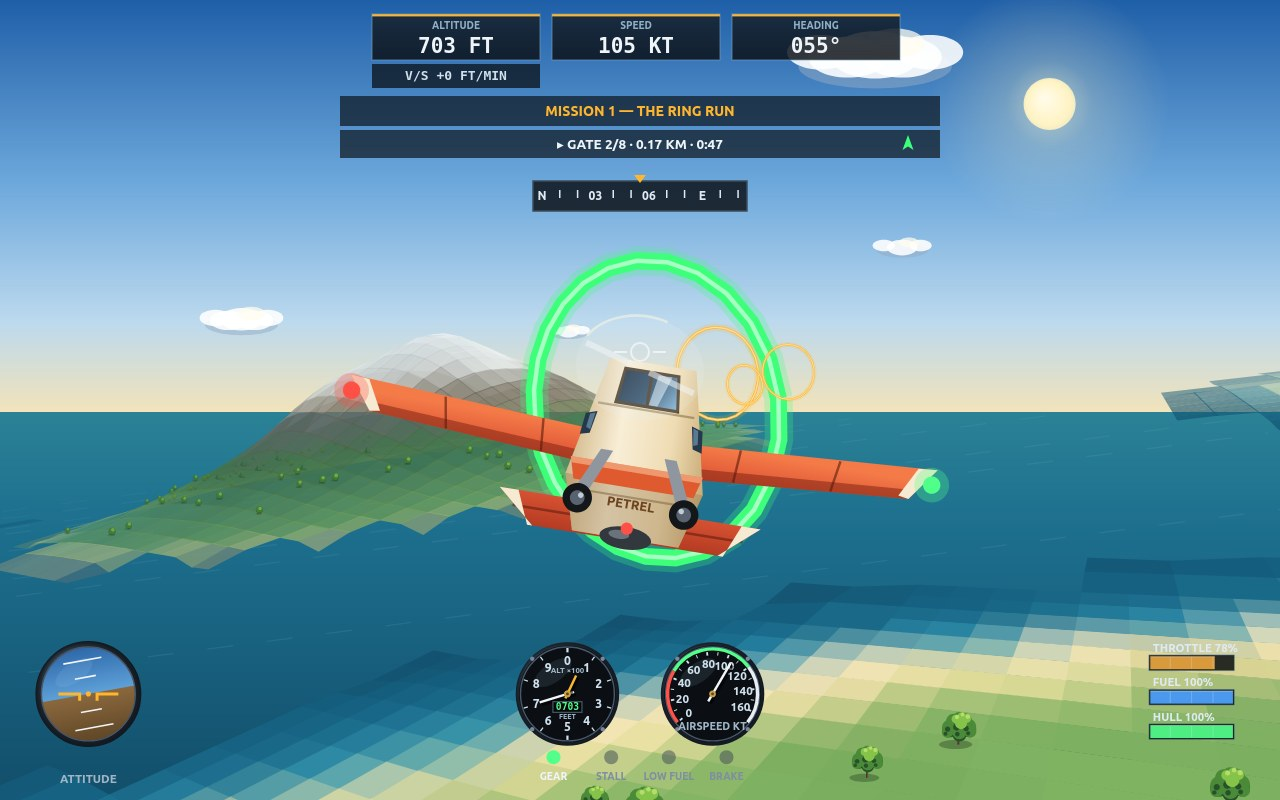
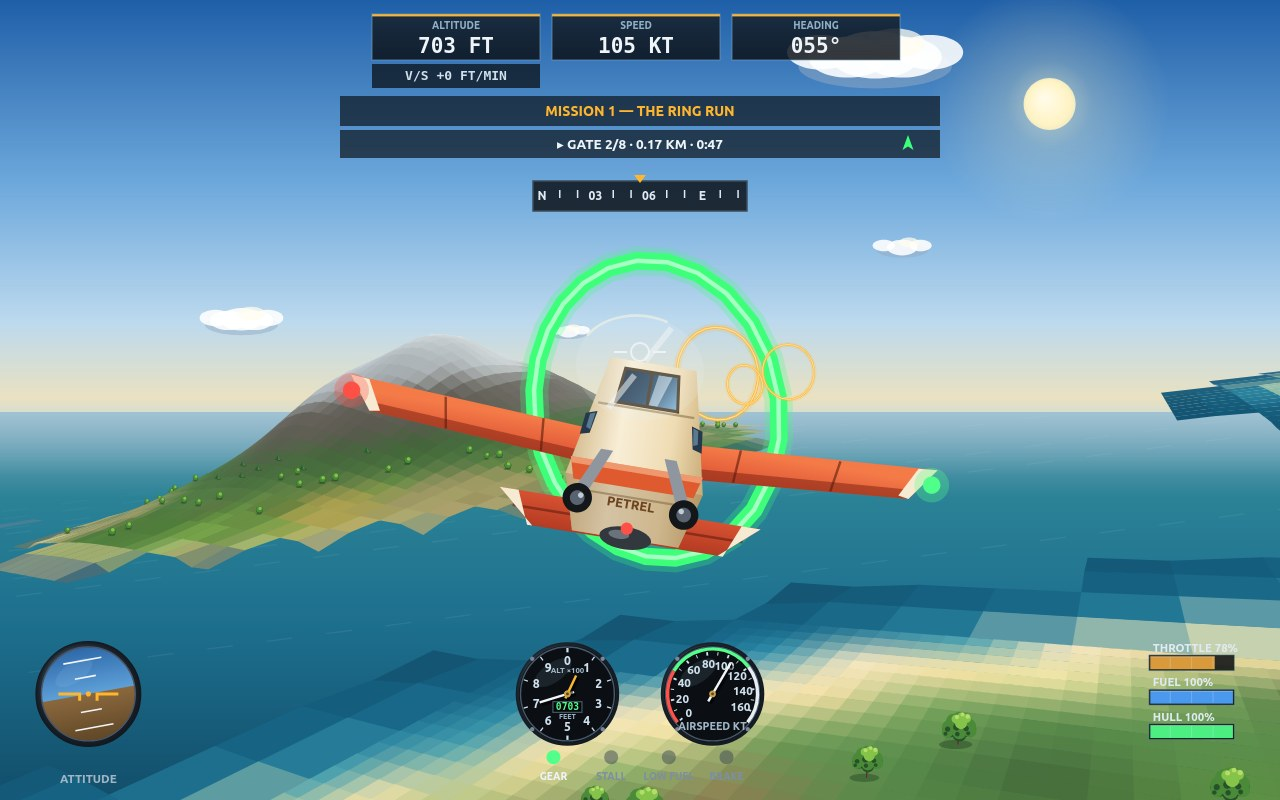
Terrain realism v5: farmland plots on the lowlands (warped grid, crop tones, plough rows, hedgerows, island ring tracks), distance haze mixed into vertex colour (no more translucent-fade wireframe on far hills), softened rock strata, cloud-shadow patches, hazy sea horizon

diff --git a/game/src/renderer-3d.js b/game/src/renderer-3d.js
@@ -5,7 +5,7 @@
 // the mission rings. One job: turn world coordinates into a picture a
 // pilot can read at a glance.
 
-import { WORLD, PALETTE, RUNWAYS } from './config.js';
+import { WORLD, PALETTE, RUNWAYS, ISLANDS } from './config.js';
 import { groundHeight, surfaceKind, chartNoise, TOWN_BLOCKS, LANDMARKS } from './terrain-archipelago.js';
 
 // The sun's direction, one for the whole world: high, east and a little
@@ -69,6 +69,79 @@ function sstep(a, b, v) {
   return t * t * (3 - 2 * t);
 }
 
+// --- The worked lowlands: farmland that breaks the last grid ---
+// v4's foreground still read as big flat squares: at grazing angles
+// one flat-filled sub-quad covers hundreds of pixels, and on the
+// flat lowlands nothing interrupted the mesh. The lowlands are now
+// farmed. Plots lie on a grid turned ~18° off the world's axes and
+// warped by chart noise, so no boundary ever runs with the drawing
+// mesh; each plot takes a crop tone from its hash, carries plough
+// rows along its own direction, and is fenced by a dark hedgerow.
+// A sandy track rings each big island through its field band.
+
+const CROP_TONES = ['cropWheat', 'cropYoung', 'cropDeep', 'cropPlough', 'cropFallow', 'grassHigh'];
+
+// Inside Porto Lume's town rectangle the ground stays plain grass:
+// the houses carry that quarter, and plots under a street grid
+// would fight the town's own pattern.
+function inTownGround(x, z) {
+  const lume = ISLANDS.find((i) => i.town);
+  return lume && x > lume.x - 400 && x < lume.x + 400 && z > lume.z + 150 && z < lume.z + 580;
+}
+
+// Distance to the nearest island ring track: a dirt road that
+// circles each big island through its farmed band, so a pilot
+// skimming the lowlands crosses a track, not a texture edge.
+function trackDistance(x, z) {
+  const home = Math.abs(Math.hypot(x - 0, z - 1700) - 760);
+  const lume = Math.abs(Math.hypot(x - 2500, z - 2300) - 580);
+  return Math.min(home, lume);
+}
+
+// The farmland itself, as a colour laid over the grass: returns the
+// tinted colour for a point in the field band, or null outside it.
+function fieldTint(c, h, slope, x, z) {
+  const amt = sstep(5.5, 9.5, h) * (1 - sstep(52, 84, h)) * (1 - sstep(0.3, 0.48, slope));
+  if (amt <= 0.01 || inTownGround(x, z)) return null;
+  // The plot grid, turned and warped: boundaries wander with the
+  // noise, never with the mesh that draws them.
+  const ca = 0.951; // cos(18°)
+  const sa = 0.309; // sin(18°)
+  const ru = x * ca + z * sa + 115 * chartNoise(x * 6, z * 6);
+  const rv = -x * sa + z * ca + 115 * chartNoise(z * 6 + 40, x * 6 - 25);
+  const S = 235; // one plot, metres across
+  const fu = ru / S;
+  const fv = rv / S;
+  const iu = Math.floor(fu);
+  const iv = Math.floor(fv);
+  const pu = fu - iu;
+  const pv = fv - iv;
+  const plotHash = cellHash(iu * 3 + 7, iv * 5 - 3);
+  const crop = hexRgb(PALETTE[CROP_TONES[Math.min(5, Math.floor(plotHash * 6))]]);
+  // Plough rows run along a direction the plot's own hash chooses,
+  // a gentle light-dark breathing across the field. The rows are
+  // wide and faint on purpose: sampled on the 65 m vertex grid, a
+  // tight bright stripe would alias into per-vertex patchwork.
+  const sta = plotHash * Math.PI;
+  const su = ((pu - 0.5) * Math.cos(sta) + (pv - 0.5) * Math.sin(sta)) * S;
+  const rows = 0.5 + 0.5 * Math.sin(su * ((Math.PI * 2) / 26) + plotHash * 30);
+  const rf = 0.97 + rows * 0.05;
+  let out = mixRgb(c, [crop[0] * rf, crop[1] * rf, crop[2] * rf], amt * 0.8);
+  // Hedgerows: a dark fence line where one plot meets the next,
+  // soft enough to read as a hedge, never as a drawn border.
+  const edge = Math.min(Math.min(pu, 1 - pu), Math.min(pv, 1 - pv)) * S;
+  const hedge = 1 - sstep(3.5, 10, edge);
+  if (hedge > 0) out = mixRgb(out, hexRgb(PALETTE.hedge), hedge * amt * 0.75);
+  // The ring track: bare sandy dirt where the road crosses, its
+  // edges feathered into the fields it serves.
+  const td = trackDistance(x, z);
+  if (td < 10) {
+    const dirt = 1 - sstep(4, 10, td);
+    out = mixRgb(out, hexRgb(PALETTE.dirt), dirt * Math.max(amt, 0.3) * 0.85);
+  }
+  return out;
+}
+
 // The ramp itself: sea floor → shelf → shallows → wet sand → dry
 // sand → mottled grass → strata rock → noise-broken snow, every
 // boundary a blend band several metres wide.
@@ -79,8 +152,8 @@ export function terrainBaseRgb(h, slope, x, z) {
     // darkens into wet sand exactly where the water lets go.
     let c = mixRgb(hexRgb(PALETTE.seaDeep), hexRgb(PALETTE.seaFloor), sstep(-11, -4, h));
     c = mixRgb(c, hexRgb(PALETTE.seaShelf), sstep(-4.5, -1.2, h));
-    c = mixRgb(c, hexRgb(PALETTE.seaShallow), sstep(-1.4, 0.1, h));
-    return mixRgb(c, hexRgb(PALETTE.sandWet), sstep(-0.1, 0.45, h));
+    c = mixRgb(c, hexRgb(PALETTE.seaShallow), sstep(-2.4, 0.3, h));
+    return mixRgb(c, hexRgb(PALETTE.sandWet), sstep(-0.2, 0.9, h));
   }
   // Sand: wet at the waterline, dry and pale a few metres up. Over
   // the very lip lies the foam's soft edge — a pale band whose
@@ -96,12 +169,19 @@ export function terrainBaseRgb(h, slope, x, z) {
   const mottle = 0.5 + 0.5 * chartNoise(x * 2.3, z * 2.3);
   const grass = mixRgb(g, hexRgb(PALETTE.scrub), mottle * 0.45);
   c = mixRgb(c, grass, sstep(3.8, 8.5, h));
-  // Rock: strata bands that follow the contour lines, their edges
-  // broken by noise, with darker scree flecked through them. Steep
-  // ground gives up its grass and shows rock at any height, and high
-  // ground turns rocky even where it lies gentle.
-  const strata = 0.5 + 0.5 * Math.sin(h * 0.115 + chartNoise(x, z) * 2.4);
-  let rock = mixRgb(hexRgb(PALETTE.rockDark), hexRgb(PALETTE.rock), 0.25 + strata * 0.65);
+  // Farmland takes the flat lowlands over from the grass: warped
+  // plots, crop tones, plough rows, hedgerows and the ring tracks.
+  const tinted = fieldTint(c, h, slope, x, z);
+  if (tinted) c = tinted;
+  // Rock: broad tonal bands with edges the noise tears apart, and
+  // darker scree flecked through them. Steep ground gives up its
+  // grass and shows rock at any height, and high ground turns rocky
+  // even where it lies gentle. (v4's strata ran at a tight vertical
+  // period keyed to height alone, so on a smooth dome they printed
+  // as contour lines — the bands are wider now, weaker, and their
+  // phase is dragged sideways by noise until no line survives.)
+  const strata = 0.5 + 0.5 * Math.sin(h * 0.05 + chartNoise(x * 2, z * 2) * 3.4);
+  let rock = mixRgb(hexRgb(PALETTE.rockDark), hexRgb(PALETTE.rock), 0.42 + strata * 0.38);
   const scree = 0.5 + 0.5 * chartNoise(x * 5.1, z * 5.1);
   rock = mixRgb(rock, hexRgb(PALETTE.rockDark), scree * 0.22);
   const rockAmt = Math.max(sstep(0.52, 0.9, slope), sstep(125, 185, h));
@@ -168,7 +248,15 @@ export function vertexAt(ix, iz) {
     ? hexRgb(PALETTE.runway)
     : terrainBaseRgb(h, slope, x, z);
   const grain = 0.985 + cellHash(ix * 3 + 11, iz * 3 - 7) * 0.03;
-  const f = light * grain;
+  // Cloud shadow: broad soft patches of shade, hundreds of metres
+  // across, laid over land and shelf alike — the still pools of
+  // darker ground a pilot sees under a broken sky. Kept under a
+  // tenth of the light, so they soften the world without ever
+  // reading as terrain of their own.
+  const cs = Math.sin(x * 0.0016 + 1.7) * Math.sin(z * 0.0013 - 0.6)
+    + 0.5 * Math.sin(x * 0.0007 - 0.9) * Math.sin(z * 0.0021 + 2.0);
+  const cloudShade = 1 - 0.09 * sstep(0.25, 0.95, cs);
+  const f = light * grain * cloudShade;
   v = {
     h,
     r: Math.min(255, base[0] * f),
@@ -305,18 +393,29 @@ export function drawSky(ctx, camera, width, height) {
 export function drawSea(ctx, project, camera, width, height, horizon) {
   // Open water deepens away from the horizon line; the shallows near a
   // shore are the terrain shelf's own colour, drawn with the land.
+  // The far water starts as haze-blue and only deepens as it nears,
+  // so the sea climbs into the sky instead of meeting it at a cut.
   const g = ctx.createLinearGradient(0, horizon, 0, height);
-  g.addColorStop(0, '#2b8296');
-  g.addColorStop(0.3, PALETTE.sea);
+  g.addColorStop(0, '#86aec2');
+  g.addColorStop(0.22, '#2b8296');
+  g.addColorStop(0.55, PALETTE.sea);
   g.addColorStop(1, PALETTE.seaDeep);
   ctx.fillStyle = g;
   ctx.fillRect(0, horizon, width, height - horizon);
+  // A soft band of horizon haze straddling the waterline: strongest
+  // exactly where sea meets sky, gone a few dozen pixels either way.
+  const band = ctx.createLinearGradient(0, horizon - 14, 0, horizon + 64);
+  band.addColorStop(0, 'rgba(188,214,228,0)');
+  band.addColorStop(0.18, 'rgba(188,214,228,0.5)');
+  band.addColorStop(1, 'rgba(188,214,228,0)');
+  ctx.fillStyle = band;
+  ctx.fillRect(0, horizon - 14, width, 78);
   // Sun glitter: a bright path on the water under the sun, dashes
   // clustered toward the sun's side of the frame and thinning outward,
   // plus a sparse scatter elsewhere — it sells the altitude instantly.
-  for (let i = 0; i < 46; i++) {
-    const onPath = i < 32;
-    const gx = onPath ? 0.82 + (((i * 197) % 199) / 199 - 0.5) * 0.36 : ((i * 613) % 997) / 997;
+  for (let i = 0; i < 58; i++) {
+    const onPath = i < 40;
+    const gx = onPath ? 0.82 + (((i * 197) % 199) / 199 - 0.5) * 0.52 : ((i * 613) % 997) / 997;
     const gz = 300 + ((i * 389) % 2600);
     const p = project(camera.x + (gx - 0.5) * gz * 1.6, 0, camera.z + gz * 0.4 + (i % 7) * 90);
     if (p && p.x > -20 && p.x < width + 20 && p.y > horizon && p.y < height) {
@@ -377,16 +476,15 @@ export function drawTerrain(ctx, project, plane) {
     }
   }
   cells.sort((a, b) => b.d2 - a.d2);
+  const hazeRgb = hexRgb(PALETTE.haze);
   for (const cell of cells) {
-    // Haze: far ground fades toward the sky so the chart's edge dissolves
-    // instead of ending in a confetti of grazing-angle slivers.
-    ctx.globalAlpha = Math.max(0.42, Math.min(1, 1.18 - Math.sqrt(cell.d2) / 3600));
     // Adaptive subdivision: the ground under the aeroplane is cut
-    // four ways, the mid-distance two, the far hills left whole —
-    // the mesh is finest exactly where a pilot's eye can measure it,
-    // and the frame rate never pays for detail nobody can see.
+    // six ways, the mid-distance two, and the far hills two as well
+    // — only the flat far shelf is left whole. The mesh is finest
+    // exactly where a pilot's eye can measure it, and no hillside
+    // anywhere is one flat quad deep.
     const dist = Math.sqrt(cell.d2);
-    const n = dist < 620 ? 4 : dist < 2400 ? 2 : 1;
+    const n = dist < 520 ? 8 : dist < 2400 ? (cell.h > 45 ? 3 : 2) : cell.h > 45 ? 2 : 1;
     const pts = [];
     for (let j = 0; j <= n; j++) {
       for (let i = 0; i <= n; i++) {
@@ -394,13 +492,27 @@ export function drawTerrain(ctx, project, plane) {
         const wz = cell.z + (step * j) / n;
         const v = samplePoint(wx, wz);
         const p = project(wx, v.h, wz);
-        pts.push(p ? { x: p.x, y: p.y, r: v.r, g: v.g, b: v.b } : null);
+        pts.push(p ? { x: p.x, y: p.y, depth: p.depth, r: v.r, g: v.g, b: v.b } : null);
       }
     }
     // Each sub-quad takes the average of its four lit corners: with
     // corners shared between neighbours and colours drawn from the
     // continuous ramp, the eye reads one smooth hillside — no facet
-    // lines on the mountain, no squares on the beach.
+    // lines on the mountain, no squares on the beach. Distance haze
+    // is mixed into the colour of every corner by its own depth, so
+    // far ground dissolves toward the horizon sky. (v4 faded far
+    // cells with a translucent fill instead; the grown, overlapping
+    // quads then double-painted their shared edges and printed a
+    // wireframe of dark seams across every distant hill. Opaque
+    // paint with the haze inside the colour has no seams to print.)
+    const hazed = (p) => {
+      const w = sstep(1500, 3500, p.depth) * 0.6;
+      return [
+        p.r + (hazeRgb[0] - p.r) * w,
+        p.g + (hazeRgb[1] - p.g) * w,
+        p.b + (hazeRgb[2] - p.b) * w,
+      ];
+    };
     for (let j = 0; j < n; j++) {
       for (let i = 0; i < n; i++) {
         const a = pts[j * (n + 1) + i];
@@ -408,7 +520,11 @@ export function drawTerrain(ctx, project, plane) {
         const c = pts[(j + 1) * (n + 1) + i + 1];
         const d = pts[(j + 1) * (n + 1) + i];
         if (!a || !b || !c || !d) continue;
-        ctx.fillStyle = `rgb(${Math.round((a.r + b.r + c.r + d.r) / 4)},${Math.round((a.g + b.g + c.g + d.g) / 4)},${Math.round((a.b + b.b + c.b + d.b) / 4)})`;
+        const ca = hazed(a);
+        const cb = hazed(b);
+        const cc = hazed(c);
+        const cd = hazed(d);
+        ctx.fillStyle = `rgb(${Math.round((ca[0] + cb[0] + cc[0] + cd[0]) / 4)},${Math.round((ca[1] + cb[1] + cc[1] + cd[1]) / 4)},${Math.round((ca[2] + cb[2] + cc[2] + cd[2]) / 4)})`;
         // Each corner pushed a hair outward from the quad's centre:
         // projected neighbours land on fractional pixels, and an
         // exact fit leaves hairline seams that print the mesh onto
@@ -445,7 +561,6 @@ export function drawTerrain(ctx, project, plane) {
     const steep = Math.hypot(dhx, dhz);
     drawCellTrees(ctx, project, cell, kind, steep);
   }
-  ctx.globalAlpha = 1;
 }
 
 // Trees ride the terrain pass so painter's order keeps them behind

diff --git a/game/src/config.js b/game/src/config.js
@@ -65,6 +65,21 @@ export const PALETTE = {
   grassLow: '#79a95c',
   grassHigh: '#4d7d43',
   scrub: '#5d8a4c',
+  // The worked lowlands: crop tones a pilot reads as farmland from
+  // pattern altitude — ripe wheat, young crop, deep pasture, fresh
+  // plough and pale fallow — fenced by dark hedgerows and crossed by
+  // sandy dirt tracks that ring the two big islands.
+  cropWheat: '#c8ad55',
+  cropYoung: '#7cab4a',
+  cropDeep: '#4f7d38',
+  cropPlough: '#8a6849',
+  cropFallow: '#b5a26e',
+  hedge: '#33512e',
+  dirt: '#b3986a',
+  // Distance haze: far ground, far sea and the horizon itself all
+  // lean toward this one pale blue, so the world dissolves into the
+  // sky instead of ending at a drawn line.
+  haze: '#bcd6e4',
   treeDark: '#2e5d33',
   treeLight: '#4c8148',
   // Broadleaf tones, taken from a real park tree's crown: a grey-brown
